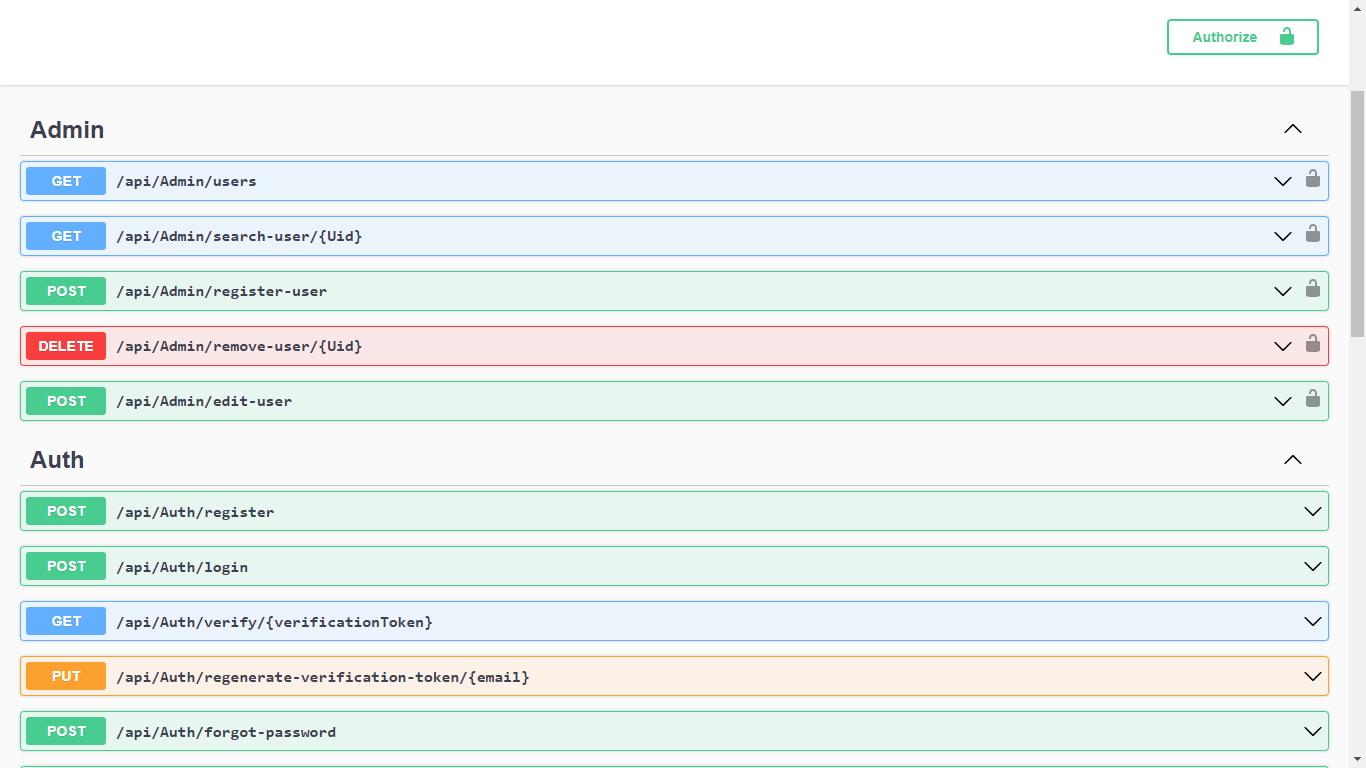
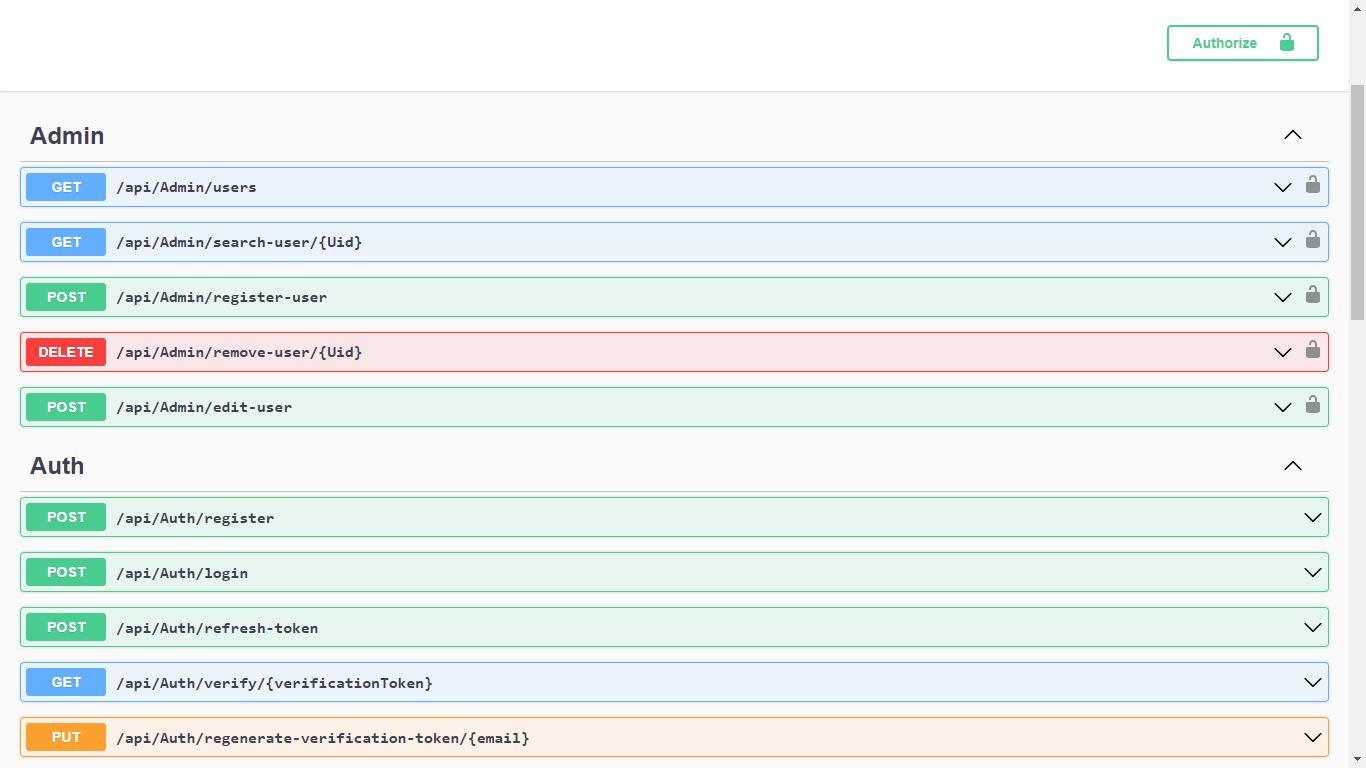
Add Refresh Token.

diff --git a/Repositories/AuthRepository.cs b/Repositories/AuthRepository.cs
@@ -7,7 +7,7 @@ using Microsoft.AspNetCore.Authorization;
 using System.Security.Claims;
 using userauthentication.Services;
 
-namespace userauthentication.Repository;
+namespace userauthentication.Repositories;
 
 public class AuthRepository : IAuthRepository
 {
@@ -17,7 +17,8 @@ public class AuthRepository : IAuthRepository
 
 	private const string UserDefaultPrivilege = "User";
 	private const int ResetTokenExpirationTimeInHours = 4;
-	private const int JWTExpirationTimeInHours = 4;
+	private const double JWTExpirationTimeInMinutes = .08333; // 5 Minutes
+	private const int RefreshTokenExpirationTimeInHours = 4;
 
 	public AuthRepository( UserDbContext context, IConfiguration configuration, 
 		IUserService userservice )
@@ -43,7 +44,7 @@ public class AuthRepository : IAuthRepository
 	}
 
 	// Login User
-	public async Task<TokenResponse?> Login(UserLoginRequest request)
+	public async Task<LoginResponse?> Login(UserLoginRequest request)
 	{
 		User user = _context.Users.FirstOrDefault(u => u.Email == request.Email);
 
@@ -57,20 +58,47 @@ public class AuthRepository : IAuthRepository
 			return null;
 		}
 
-		string secretKey = _configuration.GetSection("AppSettings:JWTSecretKey").Value!;
-		string authToken = CreateJWTToken.CreateToken(
-			user, 
-			secretKey, 
-			JWTExpirationTimeInHours
-		);
+		string authToken = CreateAccessToken(user);
+		string refreshToken = CreateRefreshToken.RefreshToken();
 
-		return new TokenResponse(true, authToken, "Login Successful.");
+		// Check For Duplicate Entry
+		while(_context.Users.Any(u => u.RefreshToken == refreshToken))
+		{
+			refreshToken = CreateRefreshToken.RefreshToken();
+		}
+
+		user.RefreshToken = refreshToken;
+		user.RefreshTokenExpirationTime = DateTime.Now.AddHours(RefreshTokenExpirationTimeInHours);
+
+		await _context.SaveChangesAsync();
+
+		return new LoginResponse(true, authToken, refreshToken, "Login Successful.");
+	}
+
+	// Refresh Token
+	public async Task<LoginResponse?> RefreshToken(string RefreshToken)
+	{
+		User user = _context.Users.FirstOrDefault(u => u.RefreshToken == RefreshToken);
+		if(user == null) return null;
+
+		if(user.RefreshTokenExpirationTime < DateTime.Now) return null;
+
+		string authToken = CreateAccessToken(user);
+
+		return new LoginResponse(
+			true, 
+			authToken, 
+			RefreshToken, 
+			"New Access Token Generaed Successfully."
+		);
 	}
 
 	// Verify User
 	public async Task<GeneralResponse> Verify(string varificatonToken)
 	{
-		var user = _context.Users.FirstOrDefault(u => u.EmailVerificationToken == varificatonToken);
+		var user = _context.Users.FirstOrDefault(
+			u => u.EmailVerificationToken == varificatonToken
+		);
 
 		if(user == null) return new GeneralResponse(false, "Invalid Token.");
 
@@ -130,9 +158,36 @@ public class AuthRepository : IAuthRepository
 		user.PasswordSalt = passwordsalt;
 		user.PasswordResetToken = null;
 		user.PasswordResetTokenExpires = null;
+		user.RefreshToken = null;
+		user.RefreshTokenExpirationTime = null;
 
 		await _context.SaveChangesAsync();
 
 		return new GeneralResponse(true, "Password Reset Successfully.");
+	}
+
+	// Logout User
+	public async Task Logout()
+	{
+		string userInfo = _userservice.getCurrentUser(ClaimTypes.Name);
+
+		var user = _context.Users.FirstOrDefault(u => u.Uid == userInfo);
+
+		user.RefreshToken = null;
+		user.RefreshTokenExpirationTime = null;
+
+		await _context.SaveChangesAsync();
+	}
+
+	// Helper Methods
+	private string CreateAccessToken(User user)
+	{
+		string secretKey = _configuration.GetSection("AppSettings:JWTSecretKey").Value!;
+		string authToken = CreateJWTToken.CreateToken(
+			user, 
+			secretKey, 
+			JWTExpirationTimeInMinutes
+		);
+		return authToken;
 	}
 }

diff --git a/Controllers/AuthController.cs b/Controllers/AuthController.cs
@@ -2,7 +2,7 @@ using Microsoft.AspNetCore.Mvc;
 using userauthentication.DTO.Request;
 using userauthentication.DTO.Response;
 using Microsoft.AspNetCore.Authorization;
-using userauthentication.Repository;
+using userauthentication.Repositories;
 
 [ApiController]
 [Route("api/[controller]")]
@@ -28,10 +28,22 @@ public class AuthController : ControllerBase
 	[HttpPost("login")]
 	public async Task<ActionResult> Login(UserLoginRequest request)
 	{
-		TokenResponse? result = await _authrepository.Login(request);
+		LoginResponse? result = await _authrepository.Login(request);
 
 		if(result == null) return BadRequest(
 			new GeneralResponse(false, "Invalid Login Credentials.")
+		);
+
+		return Ok(result);
+	}
+
+	[HttpPost("refresh-token")]
+	public async Task<ActionResult> RefreshToken([FromBody] string RefreshToken)
+	{
+		LoginResponse? result = await _authrepository.RefreshToken(RefreshToken);
+
+		if(result == null) return Unauthorized(
+			new GeneralResponse(false, "Invalid Refresh Token.")
 		);
 
 		return Ok(result);
@@ -67,6 +79,13 @@ public class AuthController : ControllerBase
 		GeneralResponse result = await _authrepository.ResetPassword(request);
 		if(result.status == false) return BadRequest(result);
 		return Ok(result);
+	}
+
+	[HttpDelete("logout"), Authorize]
+	public async Task<ActionResult> Logout()
+	{
+		await _authrepository.Logout();
+		return Ok(new GeneralResponse(true, "User Logout Successfully."));
 	}
 
 	// User After Authorization

diff --git a/Migrations/20240521082738_InitialCreate.Designer.cs b/Migrations/20240521082738_InitialCreate.Designer.cs
@@ -11,7 +11,7 @@ using userauthentication.Data;
 namespace userauthentication.Migrations
 {
     [DbContext(typeof(UserDbContext))]
-    [Migration("20240520051320_InitialCreate")]
+    [Migration("20240521082738_InitialCreate")]
     partial class InitialCreate
     {
         /// <inheritdoc />
@@ -53,6 +53,12 @@ namespace userauthentication.Migrations
                     b.Property<byte[]>("PasswordSalt")
                         .IsRequired()
                         .HasColumnType("BLOB");
+
+                    b.Property<string>("RefreshToken")
+                        .HasColumnType("TEXT");
+
+                    b.Property<DateTime?>("RefreshTokenExpirationTime")
+                        .HasColumnType("TEXT");
 
                     b.Property<string>("Uid")
                         .IsRequired()

diff --git a/Migrations/20240521082738_InitialCreate.cs b/Migrations/20240521082738_InitialCreate.cs
@@ -23,6 +23,8 @@ namespace userauthentication.Migrations
                     PasswordSalt = table.Column<byte[]>(type: "BLOB", nullable: false),
                     CreatedAt = table.Column<DateTime>(type: "TEXT", nullable: false),
                     AccountType = table.Column<string>(type: "TEXT", nullable: false),
+                    RefreshToken = table.Column<string>(type: "TEXT", nullable: true),
+                    RefreshTokenExpirationTime = table.Column<DateTime>(type: "TEXT", nullable: true),
                     EmailVerificationToken = table.Column<string>(type: "TEXT", nullable: true),
                     VerifiedAt = table.Column<DateTime>(type: "TEXT", nullable: true),
                     PasswordResetToken = table.Column<string>(type: "TEXT", nullable: true),

diff --git a/Repositories/IAuthRepository.cs b/Repositories/IAuthRepository.cs
@@ -1,13 +1,13 @@
 using userauthentication.DTO.Request;
 using userauthentication.DTO.Response;
 
-namespace userauthentication.Repository;
+namespace userauthentication.Repositories;
 
 public interface IAuthRepository
 {
 	Task<GeneralResponse> Register(UserRegisterRequest request);
 
-	Task<TokenResponse?> Login(UserLoginRequest request);
+	Task<LoginResponse?> Login(UserLoginRequest request);
 
 	Task<GeneralResponse> Verify(string varificatonToken);
 
@@ -16,4 +16,8 @@ public interface IAuthRepository
 	Task<GeneralResponse> ForgotPassword(ForgotPasswordRequest request);
 
 	Task<GeneralResponse> ResetPassword(PasswordResetRequest request);
+
+	Task<LoginResponse?> RefreshToken(string RefreshToken);
+
+	Task Logout();
 }

diff --git a/Utilities/CreateJWTToken.cs b/Utilities/CreateJWTToken.cs
@@ -8,7 +8,7 @@ namespace userauthentication.Utilities;
 
 public sealed class CreateJWTToken
 {
-	public static string CreateToken(User user, string secretKey, int JWTExpirationTime)
+	public static string CreateToken(User user, string secretKey, double JWTExpirationTime)
 	{
 		List<Claim> clames = new List<Claim> {
 			new Claim(ClaimTypes.Name, user.Uid),
@@ -27,7 +27,7 @@ public sealed class CreateJWTToken
 
 		var token = new JwtSecurityToken(
 			claims: clames,
-			expires: DateTime.Now.AddHours(JWTExpirationTime),
+			expires: DateTime.Now.AddMinutes(JWTExpirationTime),
 			signingCredentials: signingCredential
 		);
 

diff --git a/Repositories/UserRepository.cs b/Repositories/UserRepository.cs
@@ -6,15 +6,14 @@ using userauthentication.Utilities;
 using System.Security.Claims;
 using userauthentication.Services;
 
-namespace userauthentication.Repository;
+namespace userauthentication.Repositories;
 
 public class UserRepository : IUserRepository
 {
 	private readonly UserDbContext _context;
 	private readonly IUserService _userservice;
 
-	public UserRepository(UserDbContext context, IHttpContextAccessor httpconext,
-		IUserService userservice)
+	public UserRepository(UserDbContext context, IUserService userservice)
 	{
 		_context = context;
 		_userservice = userservice;

diff --git a/Migrations/UserDbContextModelSnapshot.cs b/Migrations/UserDbContextModelSnapshot.cs
@@ -51,6 +51,12 @@ namespace userauthentication.Migrations
                         .IsRequired()
                         .HasColumnType("BLOB");
 
+                    b.Property<string>("RefreshToken")
+                        .HasColumnType("TEXT");
+
+                    b.Property<DateTime?>("RefreshTokenExpirationTime")
+                        .HasColumnType("TEXT");
+
                     b.Property<string>("Uid")
                         .IsRequired()
                         .HasColumnType("TEXT");

diff --git a/Program.cs b/Program.cs
@@ -4,7 +4,7 @@ using Microsoft.AspNetCore.Authentication.JwtBearer;
 using Microsoft.IdentityModel.Tokens;
 using Microsoft.OpenApi.Models;
 using Swashbuckle.AspNetCore.Filters;
-using userauthentication.Repository;
+using userauthentication.Repositories;
 using userauthentication.Services;
 
 var builder = WebApplication.CreateBuilder(args);

diff --git a/Models/User.cs b/Models/User.cs
@@ -16,6 +16,10 @@ public class User
 
 	public string AccountType { get; set; } = string.Empty;
 
+	public string? RefreshToken { get; set; }
+
+	public DateTime? RefreshTokenExpirationTime { get; set; }
+
 	public string? EmailVerificationToken { get; set; }
 
 	public DateTime? VerifiedAt { get; set; }

diff --git a/Controllers/AdminController.cs b/Controllers/AdminController.cs
@@ -3,7 +3,7 @@ using userauthentication.Models;
 using userauthentication.DTO.Request;
 using userauthentication.DTO.Response;
 using Microsoft.AspNetCore.Authorization;
-using userauthentication.Repository;
+using userauthentication.Repositories;
 
 [ApiController]
 [Route("api/[controller]")]

diff --git a/Repositories/AdminRepository.cs b/Repositories/AdminRepository.cs
@@ -6,7 +6,7 @@ using userauthentication.Utilities;
 using System.Security.Claims;
 using userauthentication.Services;
 
-namespace userauthentication.Repository;
+namespace userauthentication.Repositories;
 
 public class AdminRepository : IAdminRepository
 {
